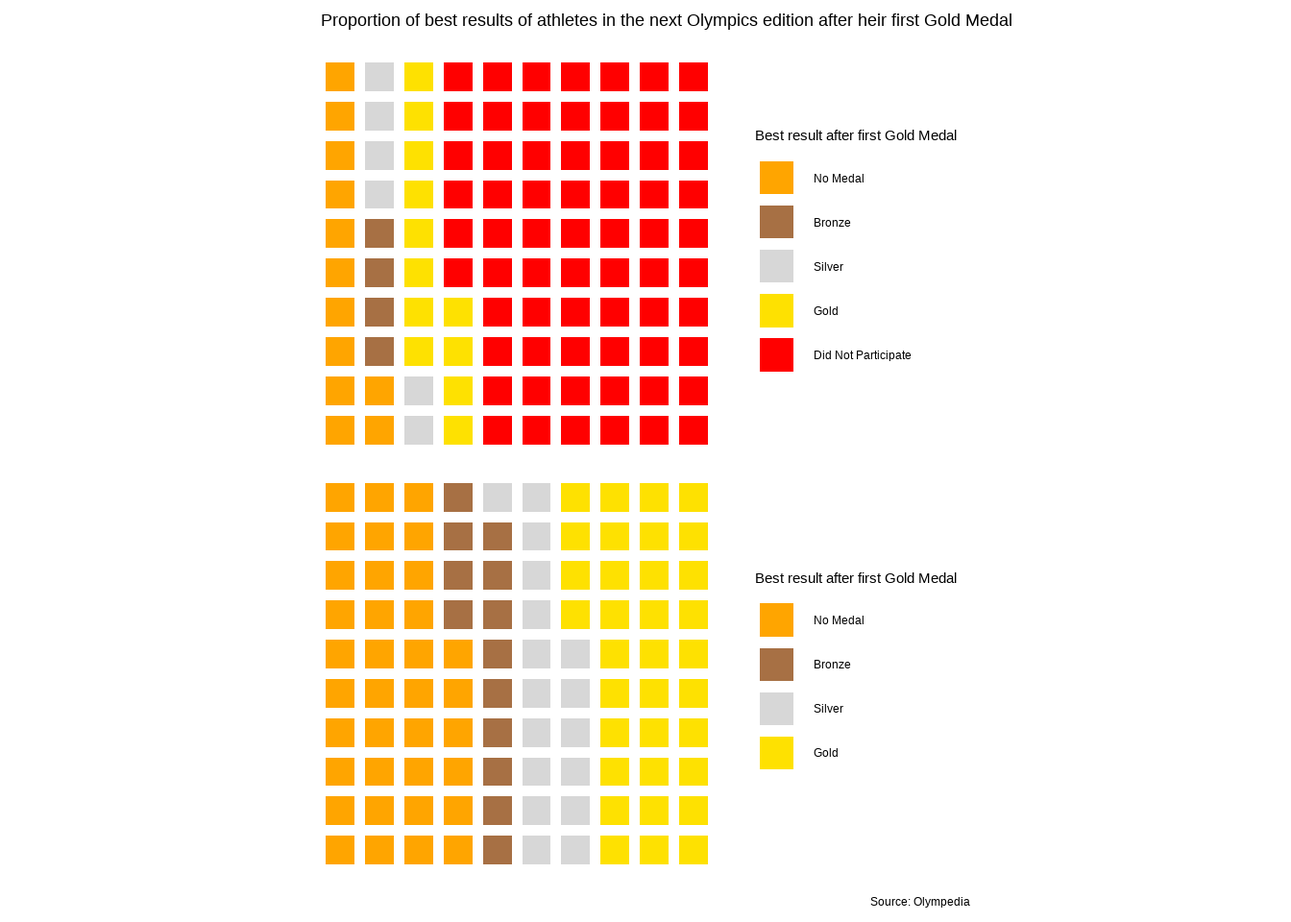
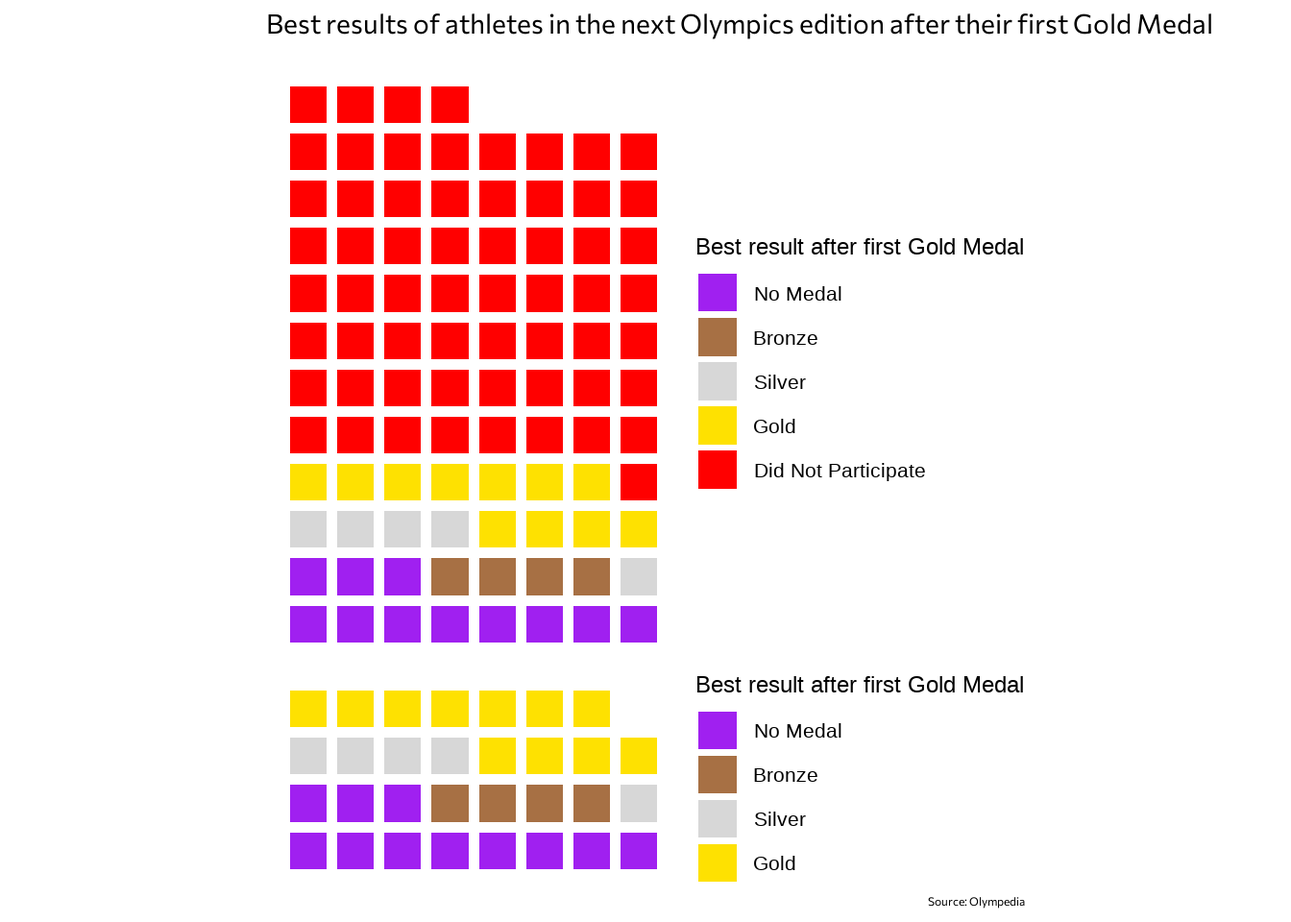
Built site for gh-pages

Changed region(s): [[0.2188, 0.0625, 0.8125, 0.9688], [0.1875, 0.0, 0.9375, 0.0312], [0.6875, 0.9688, 0.7812, 1.0]]

diff --git a/posts/post_4/post_4.html b/posts/post_4/post_4.html
@@ -208,7 +208,7 @@ pre > code.sourceCode > span > a:first-child::before { text-decoration: underlin
 
 <p>A Gold Medal in the Olympics is probably the highest an athlete can dream. While watching the 2024 Paris Olympic Games, and looking at some historic data, I tried to ask myself some questions that could be answered through creative data analysis. I thought about some medalists performance throughout multiple Olympic cicles, and asked myself: When athletes win their first Gold Medal, how do they perform in the next Olympics Edition? How often do they keep on the podium? Or do they even compete another edition?</p>
 <p>I tried to get some insight using data from <a href="https://basedosdados.org/dataset/62f8cb83-ac37-48be-874b-b94dd92d3e2b?table=567b1ccd-d8c2-4616-bacb-cf5c0e7b8d89">Olympedia</a>, downloaded from the brazilian project <a href="https://basedosdados.org/">Base dos Dados</a>.</p>
-<p>First things first: we read the data as CSV, extract the year the edition happened, and replace NAs in the Medal column as “No_Medal”.</p>
+<p>First things first: we read the data as CSV, extract the year the edition happened, and replace NAs in the Medal column as “No_Medal”. I also ordered the Medal column.</p>
 <div class="cell">
 <div class="sourceCode cell-code" id="cb1"><pre class="sourceCode r code-with-copy"><code class="sourceCode r"><span id="cb1-1"><a href="#cb1-1" aria-hidden="true" tabindex="-1"></a><span class="fu">library</span>(tidyverse)</span>
 <span id="cb1-2"><a href="#cb1-2" aria-hidden="true" tabindex="-1"></a><span class="fu">library</span>(showtext)</span>
@@ -245,61 +245,70 @@ pre > code.sourceCode > span > a:first-child::before { text-decoration: underlin
 <span id="cb3-6"><a href="#cb3-6" aria-hidden="true" tabindex="-1"></a></span>
 <span id="cb3-7"><a href="#cb3-7" aria-hidden="true" tabindex="-1"></a>join <span class="ot">&lt;-</span> first_gold <span class="sc">%&gt;%</span></span>
 <span id="cb3-8"><a href="#cb3-8" aria-hidden="true" tabindex="-1"></a>  <span class="fu">left_join</span>(next_edition_medals, <span class="at">by =</span> <span class="fu">c</span>(<span class="st">"athlete_id"</span>,<span class="st">"next_ed"</span>)) <span class="sc">%&gt;%</span></span>
-<span id="cb3-9"><a href="#cb3-9" aria-hidden="true" tabindex="-1"></a>  <span class="fu">replace_na</span>(<span class="fu">list</span>(<span class="at">medal =</span> <span class="st">"no_participation"</span>)) <span class="sc">%&gt;%</span></span>
-<span id="cb3-10"><a href="#cb3-10" aria-hidden="true" tabindex="-1"></a>  <span class="fu">group_by</span>(athlete_id) <span class="sc">%&gt;%</span></span>
-<span id="cb3-11"><a href="#cb3-11" aria-hidden="true" tabindex="-1"></a>  <span class="fu">slice_max</span>(medal.y) <span class="sc">%&gt;%</span></span>
-<span id="cb3-12"><a href="#cb3-12" aria-hidden="true" tabindex="-1"></a>  <span class="fu">unique</span>() <span class="sc">%&gt;%</span></span>
-<span id="cb3-13"><a href="#cb3-13" aria-hidden="true" tabindex="-1"></a>  <span class="fu">ungroup</span>() </span>
-<span id="cb3-14"><a href="#cb3-14" aria-hidden="true" tabindex="-1"></a></span>
-<span id="cb3-15"><a href="#cb3-15" aria-hidden="true" tabindex="-1"></a>df <span class="ot">&lt;-</span> join <span class="sc">%&gt;%</span></span>
-<span id="cb3-16"><a href="#cb3-16" aria-hidden="true" tabindex="-1"></a>  <span class="fu">rename</span>(<span class="st">"first_gold"</span> <span class="ot">=</span> medal.x, <span class="st">"next_medal"</span> <span class="ot">=</span> medal.y)</span></code><button title="Copy to Clipboard" class="code-copy-button"><i class="bi"></i></button></pre></div>
+<span id="cb3-9"><a href="#cb3-9" aria-hidden="true" tabindex="-1"></a>  <span class="fu">group_by</span>(athlete_id) <span class="sc">%&gt;%</span></span>
+<span id="cb3-10"><a href="#cb3-10" aria-hidden="true" tabindex="-1"></a>  <span class="fu">slice_max</span>(medal.y) <span class="sc">%&gt;%</span></span>
+<span id="cb3-11"><a href="#cb3-11" aria-hidden="true" tabindex="-1"></a>  <span class="fu">unique</span>() <span class="sc">%&gt;%</span></span>
+<span id="cb3-12"><a href="#cb3-12" aria-hidden="true" tabindex="-1"></a>  <span class="fu">ungroup</span>() </span>
+<span id="cb3-13"><a href="#cb3-13" aria-hidden="true" tabindex="-1"></a></span>
+<span id="cb3-14"><a href="#cb3-14" aria-hidden="true" tabindex="-1"></a>join<span class="sc">$</span>medal.y <span class="ot">&lt;-</span> <span class="fu">addNA</span>(join<span class="sc">$</span>medal.y)</span>
+<span id="cb3-15"><a href="#cb3-15" aria-hidden="true" tabindex="-1"></a><span class="fu">levels</span>(join<span class="sc">$</span>medal.y) <span class="ot">&lt;-</span> <span class="fu">c</span>(<span class="st">"No Medal"</span>, <span class="st">"Bronze"</span>, <span class="st">"Silver"</span>, <span class="st">"Gold"</span>, <span class="st">"Did Not Participate"</span>)</span>
+<span id="cb3-16"><a href="#cb3-16" aria-hidden="true" tabindex="-1"></a></span>
+<span id="cb3-17"><a href="#cb3-17" aria-hidden="true" tabindex="-1"></a>df <span class="ot">&lt;-</span> join <span class="sc">%&gt;%</span></span>
+<span id="cb3-18"><a href="#cb3-18" aria-hidden="true" tabindex="-1"></a>  <span class="fu">rename</span>(<span class="st">"first_gold"</span> <span class="ot">=</span> medal.x, <span class="st">"next_medal"</span> <span class="ot">=</span> medal.y)</span></code><button title="Copy to Clipboard" class="code-copy-button"><i class="bi"></i></button></pre></div>
 </div>
 <p>Now the dataset summarises the first time an athlete won a Gold Medal, and then the next edition the athlete participated, and the best result obtained - since some athletes win way more than one medal in one edition. One thing I did not control, however, is whether the athlete won a medal in the same category, or another.</p>
-<p>And now to the first plot, I created a Waffle chart, representing the percentage of the results athletes get after winning their first Gold Medals. The plot on the left shows the general result, counting the athletes who did not participate in the next ediiton of the Olympics. The plot in the right, ignores those athletes.</p>
+<p>And now to the first plot, I created a Waffle chart, representing what athletes get after winning their first Gold Medals. The squares represent every 100 athletes. The plot on the top shows the general result, counting the athletes who did not participate in the next ediiton of the Olympics. The plot below, ignores those athletes.</p>
 <div class="cell">
 <div class="sourceCode cell-code" id="cb4"><pre class="sourceCode r code-with-copy"><code class="sourceCode r"><span id="cb4-1"><a href="#cb4-1" aria-hidden="true" tabindex="-1"></a><span class="fu">library</span>(waffle)</span>
-<span id="cb4-2"><a href="#cb4-2" aria-hidden="true" tabindex="-1"></a></span>
-<span id="cb4-3"><a href="#cb4-3" aria-hidden="true" tabindex="-1"></a>one_a <span class="ot">&lt;-</span> df <span class="sc">%&gt;%</span></span>
-<span id="cb4-4"><a href="#cb4-4" aria-hidden="true" tabindex="-1"></a>  <span class="fu">group_by</span>(next_medal) <span class="sc">%&gt;%</span></span>
-<span id="cb4-5"><a href="#cb4-5" aria-hidden="true" tabindex="-1"></a>  <span class="fu">summarise</span>(</span>
-<span id="cb4-6"><a href="#cb4-6" aria-hidden="true" tabindex="-1"></a>    <span class="at">perc =</span> <span class="fu">round</span>((<span class="fu">n</span>()<span class="sc">/</span><span class="fu">nrow</span>(.))<span class="sc">*</span><span class="dv">100</span>)</span>
-<span id="cb4-7"><a href="#cb4-7" aria-hidden="true" tabindex="-1"></a>  ) <span class="sc">%&gt;%</span></span>
-<span id="cb4-8"><a href="#cb4-8" aria-hidden="true" tabindex="-1"></a>  <span class="fu">waffle</span>() <span class="sc">+</span></span>
-<span id="cb4-9"><a href="#cb4-9" aria-hidden="true" tabindex="-1"></a>  <span class="fu">scale_fill_manual</span>(<span class="at">labels =</span> <span class="fu">c</span>(<span class="st">"No Medal"</span>, <span class="st">"Bronze"</span>, <span class="st">"Silver"</span>, <span class="st">"Gold"</span>, <span class="st">"Did Not Participate"</span>),</span>
-<span id="cb4-10"><a href="#cb4-10" aria-hidden="true" tabindex="-1"></a>                    <span class="at">values =</span> <span class="fu">c</span>(<span class="st">"orange"</span>, <span class="st">"#A77044"</span>, <span class="st">"#D7D7D7"</span>, <span class="st">"#FEE101"</span>, <span class="st">"red"</span>)) <span class="sc">+</span></span>
-<span id="cb4-11"><a href="#cb4-11" aria-hidden="true" tabindex="-1"></a>  <span class="fu">labs</span>(</span>
-<span id="cb4-12"><a href="#cb4-12" aria-hidden="true" tabindex="-1"></a>    <span class="at">fill =</span> <span class="st">"Best result after first Gold Medal"</span></span>
-<span id="cb4-13"><a href="#cb4-13" aria-hidden="true" tabindex="-1"></a>  )</span>
-<span id="cb4-14"><a href="#cb4-14" aria-hidden="true" tabindex="-1"></a></span>
-<span id="cb4-15"><a href="#cb4-15" aria-hidden="true" tabindex="-1"></a>one_b <span class="ot">&lt;-</span> df <span class="sc">%&gt;%</span></span>
-<span id="cb4-16"><a href="#cb4-16" aria-hidden="true" tabindex="-1"></a>  <span class="fu">filter</span>(next_medal <span class="sc">!=</span> <span class="st">"no_participation"</span>) <span class="sc">%&gt;%</span></span>
-<span id="cb4-17"><a href="#cb4-17" aria-hidden="true" tabindex="-1"></a>  <span class="fu">group_by</span>(next_medal) <span class="sc">%&gt;%</span></span>
-<span id="cb4-18"><a href="#cb4-18" aria-hidden="true" tabindex="-1"></a>  <span class="fu">summarise</span>(</span>
-<span id="cb4-19"><a href="#cb4-19" aria-hidden="true" tabindex="-1"></a>    <span class="at">perc =</span> <span class="fu">round</span>((<span class="fu">n</span>()<span class="sc">/</span><span class="fu">nrow</span>(.))<span class="sc">*</span><span class="dv">100</span>)</span>
-<span id="cb4-20"><a href="#cb4-20" aria-hidden="true" tabindex="-1"></a>  ) <span class="sc">%&gt;%</span></span>
-<span id="cb4-21"><a href="#cb4-21" aria-hidden="true" tabindex="-1"></a>  <span class="fu">waffle</span>() <span class="sc">+</span></span>
-<span id="cb4-22"><a href="#cb4-22" aria-hidden="true" tabindex="-1"></a>  <span class="fu">scale_fill_manual</span>(<span class="at">labels =</span> <span class="fu">c</span>(<span class="st">"No Medal"</span>, <span class="st">"Bronze"</span>, <span class="st">"Silver"</span>, <span class="st">"Gold"</span>),</span>
-<span id="cb4-23"><a href="#cb4-23" aria-hidden="true" tabindex="-1"></a>                    <span class="at">values =</span> <span class="fu">c</span>(<span class="st">"orange"</span>, <span class="st">"#A77044"</span>, <span class="st">"#D7D7D7"</span>, <span class="st">"#FEE101"</span>)) <span class="sc">+</span></span>
-<span id="cb4-24"><a href="#cb4-24" aria-hidden="true" tabindex="-1"></a>  <span class="fu">labs</span>(</span>
-<span id="cb4-25"><a href="#cb4-25" aria-hidden="true" tabindex="-1"></a>    <span class="at">fill =</span> <span class="st">"Best result after first Gold Medal"</span></span>
-<span id="cb4-26"><a href="#cb4-26" aria-hidden="true" tabindex="-1"></a>  )</span>
-<span id="cb4-27"><a href="#cb4-27" aria-hidden="true" tabindex="-1"></a></span>
-<span id="cb4-28"><a href="#cb4-28" aria-hidden="true" tabindex="-1"></a><span class="fu">library</span>(patchwork)</span>
-<span id="cb4-29"><a href="#cb4-29" aria-hidden="true" tabindex="-1"></a></span>
-<span id="cb4-30"><a href="#cb4-30" aria-hidden="true" tabindex="-1"></a>title_one <span class="ot">&lt;-</span> <span class="st">"Proportion of best results of athletes in the next Olympics edition after heir first Gold Medal"</span></span>
-<span id="cb4-31"><a href="#cb4-31" aria-hidden="true" tabindex="-1"></a>caption_one <span class="ot">&lt;-</span> <span class="st">"Source: Olympedia"</span></span>
-<span id="cb4-32"><a href="#cb4-32" aria-hidden="true" tabindex="-1"></a> </span>
-<span id="cb4-33"><a href="#cb4-33" aria-hidden="true" tabindex="-1"></a>plot <span class="ot">&lt;-</span> one_a <span class="sc">/</span> one_b </span>
+<span id="cb4-2"><a href="#cb4-2" aria-hidden="true" tabindex="-1"></a>one_a  <span class="ot">&lt;-</span> df <span class="sc">%&gt;%</span></span>
+<span id="cb4-3"><a href="#cb4-3" aria-hidden="true" tabindex="-1"></a>  <span class="fu">group_by</span>(next_medal) <span class="sc">%&gt;%</span></span>
+<span id="cb4-4"><a href="#cb4-4" aria-hidden="true" tabindex="-1"></a>  <span class="fu">summarise</span>(</span>
+<span id="cb4-5"><a href="#cb4-5" aria-hidden="true" tabindex="-1"></a>    <span class="at">n =</span> <span class="fu">n</span>()<span class="sc">/</span><span class="dv">100</span></span>
+<span id="cb4-6"><a href="#cb4-6" aria-hidden="true" tabindex="-1"></a>  ) <span class="sc">%&gt;%</span></span>
+<span id="cb4-7"><a href="#cb4-7" aria-hidden="true" tabindex="-1"></a>  <span class="fu">ggplot</span>(<span class="fu">aes</span>(<span class="at">fill =</span> next_medal, <span class="at">values =</span> n)) <span class="sc">+</span></span>
+<span id="cb4-8"><a href="#cb4-8" aria-hidden="true" tabindex="-1"></a>    <span class="fu">geom_waffle</span>(<span class="at">colour =</span> <span class="st">"white"</span>, <span class="at">n_rows =</span> <span class="dv">8</span>, <span class="at">size =</span> <span class="dv">2</span>, <span class="at">flip =</span> <span class="cn">TRUE</span>) <span class="sc">+</span></span>
+<span id="cb4-9"><a href="#cb4-9" aria-hidden="true" tabindex="-1"></a>    <span class="fu">scale_fill_manual</span>(<span class="at">values =</span> <span class="fu">c</span>(<span class="st">"purple"</span>, <span class="st">"#A77044"</span>, <span class="st">"#D7D7D7"</span>, <span class="st">"#FEE101"</span>, <span class="st">"red"</span>))  <span class="sc">+</span></span>
+<span id="cb4-10"><a href="#cb4-10" aria-hidden="true" tabindex="-1"></a>    <span class="fu">labs</span>(</span>
+<span id="cb4-11"><a href="#cb4-11" aria-hidden="true" tabindex="-1"></a>      <span class="at">fill =</span> <span class="st">"Best result after first Gold Medal"</span></span>
+<span id="cb4-12"><a href="#cb4-12" aria-hidden="true" tabindex="-1"></a>    ) <span class="sc">+</span></span>
+<span id="cb4-13"><a href="#cb4-13" aria-hidden="true" tabindex="-1"></a>  <span class="fu">theme_void</span>() <span class="sc">+</span></span>
+<span id="cb4-14"><a href="#cb4-14" aria-hidden="true" tabindex="-1"></a>  <span class="fu">coord_equal</span>() <span class="sc">+</span></span>
+<span id="cb4-15"><a href="#cb4-15" aria-hidden="true" tabindex="-1"></a>  <span class="fu">theme</span>(<span class="at">legend.text =</span> <span class="fu">element_text</span>(<span class="at">size =</span> <span class="dv">16</span>),</span>
+<span id="cb4-16"><a href="#cb4-16" aria-hidden="true" tabindex="-1"></a>        <span class="at">legend.title =</span> <span class="fu">element_text</span>(<span class="at">size =</span> <span class="dv">18</span>))</span>
+<span id="cb4-17"><a href="#cb4-17" aria-hidden="true" tabindex="-1"></a></span>
+<span id="cb4-18"><a href="#cb4-18" aria-hidden="true" tabindex="-1"></a>one_b  <span class="ot">&lt;-</span> df <span class="sc">%&gt;%</span></span>
+<span id="cb4-19"><a href="#cb4-19" aria-hidden="true" tabindex="-1"></a>  <span class="fu">filter</span>(next_medal <span class="sc">!=</span> <span class="st">"Did Not Participate"</span>) <span class="sc">%&gt;%</span></span>
+<span id="cb4-20"><a href="#cb4-20" aria-hidden="true" tabindex="-1"></a>  <span class="fu">group_by</span>(next_medal) <span class="sc">%&gt;%</span></span>
+<span id="cb4-21"><a href="#cb4-21" aria-hidden="true" tabindex="-1"></a>  <span class="fu">summarise</span>(</span>
+<span id="cb4-22"><a href="#cb4-22" aria-hidden="true" tabindex="-1"></a>    <span class="at">n =</span> <span class="fu">n</span>()<span class="sc">/</span><span class="dv">100</span></span>
+<span id="cb4-23"><a href="#cb4-23" aria-hidden="true" tabindex="-1"></a>  ) <span class="sc">%&gt;%</span></span>
+<span id="cb4-24"><a href="#cb4-24" aria-hidden="true" tabindex="-1"></a>  <span class="fu">ggplot</span>(<span class="fu">aes</span>(<span class="at">fill =</span> next_medal, <span class="at">values =</span> n)) <span class="sc">+</span></span>
+<span id="cb4-25"><a href="#cb4-25" aria-hidden="true" tabindex="-1"></a>    <span class="fu">geom_waffle</span>(<span class="at">colour =</span> <span class="st">"white"</span>, <span class="at">n_rows =</span> <span class="dv">8</span>, <span class="at">size =</span> <span class="dv">2</span>, <span class="at">flip =</span> <span class="cn">TRUE</span>) <span class="sc">+</span></span>
+<span id="cb4-26"><a href="#cb4-26" aria-hidden="true" tabindex="-1"></a>    <span class="fu">scale_fill_manual</span>(<span class="at">values =</span> <span class="fu">c</span>(<span class="st">"purple"</span>, <span class="st">"#A77044"</span>, <span class="st">"#D7D7D7"</span>, <span class="st">"#FEE101"</span>))  <span class="sc">+</span></span>
+<span id="cb4-27"><a href="#cb4-27" aria-hidden="true" tabindex="-1"></a>    <span class="fu">labs</span>(</span>
+<span id="cb4-28"><a href="#cb4-28" aria-hidden="true" tabindex="-1"></a>      <span class="at">fill =</span> <span class="st">"Best result after first Gold Medal"</span></span>
+<span id="cb4-29"><a href="#cb4-29" aria-hidden="true" tabindex="-1"></a>    ) <span class="sc">+</span></span>
+<span id="cb4-30"><a href="#cb4-30" aria-hidden="true" tabindex="-1"></a>  <span class="fu">theme_void</span>() <span class="sc">+</span></span>
+<span id="cb4-31"><a href="#cb4-31" aria-hidden="true" tabindex="-1"></a>  <span class="fu">coord_equal</span>() <span class="sc">+</span></span>
+<span id="cb4-32"><a href="#cb4-32" aria-hidden="true" tabindex="-1"></a>  <span class="fu">theme</span>(<span class="at">legend.text =</span> <span class="fu">element_text</span>(<span class="at">size =</span> <span class="dv">16</span>),</span>
+<span id="cb4-33"><a href="#cb4-33" aria-hidden="true" tabindex="-1"></a>        <span class="at">legend.title =</span> <span class="fu">element_text</span>(<span class="at">size =</span> <span class="dv">18</span>))</span>
 <span id="cb4-34"><a href="#cb4-34" aria-hidden="true" tabindex="-1"></a></span>
-<span id="cb4-35"><a href="#cb4-35" aria-hidden="true" tabindex="-1"></a>plot <span class="sc">+</span></span>
-<span id="cb4-36"><a href="#cb4-36" aria-hidden="true" tabindex="-1"></a>  <span class="fu">plot_annotation</span>(</span>
-<span id="cb4-37"><a href="#cb4-37" aria-hidden="true" tabindex="-1"></a>    <span class="at">title =</span> title_one,</span>
-<span id="cb4-38"><a href="#cb4-38" aria-hidden="true" tabindex="-1"></a>    <span class="at">caption =</span> caption_one</span>
-<span id="cb4-39"><a href="#cb4-39" aria-hidden="true" tabindex="-1"></a>  ) <span class="sc">+</span></span>
-<span id="cb4-40"><a href="#cb4-40" aria-hidden="true" tabindex="-1"></a>  <span class="fu">theme</span>(</span>
-<span id="cb4-41"><a href="#cb4-41" aria-hidden="true" tabindex="-1"></a>    <span class="at">plot.title =</span> <span class="fu">element_text</span>(<span class="at">family =</span> <span class="st">"Commissioner"</span>),</span>
-<span id="cb4-42"><a href="#cb4-42" aria-hidden="true" tabindex="-1"></a>    <span class="at">plot.caption =</span> <span class="fu">element_text</span>(<span class="at">family =</span> <span class="st">"Commissioner"</span>)</span>
-<span id="cb4-43"><a href="#cb4-43" aria-hidden="true" tabindex="-1"></a>  )</span></code><button title="Copy to Clipboard" class="code-copy-button"><i class="bi"></i></button></pre></div>
+<span id="cb4-35"><a href="#cb4-35" aria-hidden="true" tabindex="-1"></a><span class="fu">library</span>(patchwork)</span>
+<span id="cb4-36"><a href="#cb4-36" aria-hidden="true" tabindex="-1"></a></span>
+<span id="cb4-37"><a href="#cb4-37" aria-hidden="true" tabindex="-1"></a>title_one <span class="ot">&lt;-</span> <span class="st">"Best results of athletes in the next Olympics edition after their first Gold Medal"</span></span>
+<span id="cb4-38"><a href="#cb4-38" aria-hidden="true" tabindex="-1"></a>caption_one <span class="ot">&lt;-</span> <span class="st">"Source: Olympedia"</span></span>
+<span id="cb4-39"><a href="#cb4-39" aria-hidden="true" tabindex="-1"></a> </span>
+<span id="cb4-40"><a href="#cb4-40" aria-hidden="true" tabindex="-1"></a>plot <span class="ot">&lt;-</span> one_a <span class="sc">/</span> one_b </span>
+<span id="cb4-41"><a href="#cb4-41" aria-hidden="true" tabindex="-1"></a></span>
+<span id="cb4-42"><a href="#cb4-42" aria-hidden="true" tabindex="-1"></a>plot <span class="sc">+</span></span>
+<span id="cb4-43"><a href="#cb4-43" aria-hidden="true" tabindex="-1"></a>  <span class="fu">plot_annotation</span>(</span>
+<span id="cb4-44"><a href="#cb4-44" aria-hidden="true" tabindex="-1"></a>    <span class="at">title =</span> title_one,</span>
+<span id="cb4-45"><a href="#cb4-45" aria-hidden="true" tabindex="-1"></a>    <span class="at">caption =</span> caption_one,</span>
+<span id="cb4-46"><a href="#cb4-46" aria-hidden="true" tabindex="-1"></a>    <span class="at">theme =</span> <span class="fu">theme</span>(</span>
+<span id="cb4-47"><a href="#cb4-47" aria-hidden="true" tabindex="-1"></a>      <span class="at">plot.title =</span> <span class="fu">element_text</span>(<span class="at">family =</span> <span class="st">"Commissioner"</span>, <span class="at">size =</span> <span class="dv">21</span>),</span>
+<span id="cb4-48"><a href="#cb4-48" aria-hidden="true" tabindex="-1"></a>      <span class="at">plot.caption =</span> <span class="fu">element_text</span>(<span class="at">family =</span> <span class="st">"Commissioner"</span>, <span class="dv">30</span>)</span>
+<span id="cb4-49"><a href="#cb4-49" aria-hidden="true" tabindex="-1"></a>   )</span>
+<span id="cb4-50"><a href="#cb4-50" aria-hidden="true" tabindex="-1"></a>  ) </span></code><button title="Copy to Clipboard" class="code-copy-button"><i class="bi"></i></button></pre></div>
 <div class="cell-output-display">
 <div>
 <figure class="figure">
@@ -308,32 +317,36 @@ pre > code.sourceCode > span > a:first-child::before { text-decoration: underlin
 </div>
 </div>
 </div>
-<p>Since I’m Brazilian, I also wanted to look to the familiar faces of Brazilian gold medalists. Here, I did not use percentage data.</p>
+<p>Since I’m Brazilian, I also wanted to look to the familiar faces of Brazilian gold medalists. Here, I did not divide the number of athletes by then so each square represents one athlete.</p>
 <div class="cell">
-<div class="sourceCode cell-code" id="cb5"><pre class="sourceCode r code-with-copy"><code class="sourceCode r"><span id="cb5-1"><a href="#cb5-1" aria-hidden="true" tabindex="-1"></a>title_two <span class="ot">&lt;-</span> <span class="st">"Proportion of best results of brazilian athletes in the next Olympics edition after heir first Gold Medal"</span></span>
+<div class="sourceCode cell-code" id="cb5"><pre class="sourceCode r code-with-copy"><code class="sourceCode r"><span id="cb5-1"><a href="#cb5-1" aria-hidden="true" tabindex="-1"></a>title_two <span class="ot">&lt;-</span> <span class="st">"Best results of brazilian athletes in the next Olympics edition after their first Gold Medal"</span></span>
 <span id="cb5-2"><a href="#cb5-2" aria-hidden="true" tabindex="-1"></a>caption_two <span class="ot">&lt;-</span> <span class="st">"Source: Olympedia"</span></span>
 <span id="cb5-3"><a href="#cb5-3" aria-hidden="true" tabindex="-1"></a></span>
-<span id="cb5-4"><a href="#cb5-4" aria-hidden="true" tabindex="-1"></a>df <span class="sc">%&gt;%</span></span>
-<span id="cb5-5"><a href="#cb5-5" aria-hidden="true" tabindex="-1"></a>  <span class="fu">filter</span>(next_medal <span class="sc">!=</span> <span class="st">"no_participation"</span>) <span class="sc">%&gt;%</span></span>
+<span id="cb5-4"><a href="#cb5-4" aria-hidden="true" tabindex="-1"></a>two <span class="ot">&lt;-</span> df <span class="sc">%&gt;%</span></span>
+<span id="cb5-5"><a href="#cb5-5" aria-hidden="true" tabindex="-1"></a>  <span class="fu">filter</span>(next_medal <span class="sc">!=</span> <span class="st">"Did Not Participate"</span>) <span class="sc">%&gt;%</span></span>
 <span id="cb5-6"><a href="#cb5-6" aria-hidden="true" tabindex="-1"></a>  <span class="fu">filter</span>(country_noc <span class="sc">==</span> <span class="st">"BRA"</span>) <span class="sc">%&gt;%</span></span>
 <span id="cb5-7"><a href="#cb5-7" aria-hidden="true" tabindex="-1"></a>  <span class="fu">group_by</span>(next_medal) <span class="sc">%&gt;%</span></span>
 <span id="cb5-8"><a href="#cb5-8" aria-hidden="true" tabindex="-1"></a>  <span class="fu">summarise</span>(</span>
-<span id="cb5-9"><a href="#cb5-9" aria-hidden="true" tabindex="-1"></a>    <span class="fu">n</span>()</span>
+<span id="cb5-9"><a href="#cb5-9" aria-hidden="true" tabindex="-1"></a>    <span class="at">n =</span> <span class="fu">n</span>()</span>
 <span id="cb5-10"><a href="#cb5-10" aria-hidden="true" tabindex="-1"></a>  ) <span class="sc">%&gt;%</span></span>
-<span id="cb5-11"><a href="#cb5-11" aria-hidden="true" tabindex="-1"></a>  <span class="fu">waffle</span>() <span class="sc">+</span></span>
-<span id="cb5-12"><a href="#cb5-12" aria-hidden="true" tabindex="-1"></a>  <span class="fu">scale_fill_manual</span>(<span class="at">labels =</span> <span class="fu">c</span>(<span class="st">"No Medal"</span>, <span class="st">"Bronze"</span>, <span class="st">"Silver"</span>, <span class="st">"Gold"</span>),</span>
-<span id="cb5-13"><a href="#cb5-13" aria-hidden="true" tabindex="-1"></a>                    <span class="at">values =</span> <span class="fu">c</span>(<span class="st">"orange"</span>, <span class="st">"#A77044"</span>, <span class="st">"#D7D7D7"</span>, <span class="st">"#FEE101"</span>)) <span class="sc">+</span></span>
-<span id="cb5-14"><a href="#cb5-14" aria-hidden="true" tabindex="-1"></a>  <span class="fu">labs</span>(</span>
-<span id="cb5-15"><a href="#cb5-15" aria-hidden="true" tabindex="-1"></a>    <span class="at">fill =</span> <span class="st">"Best result after first Gold Medal"</span></span>
-<span id="cb5-16"><a href="#cb5-16" aria-hidden="true" tabindex="-1"></a>  ) <span class="sc">+</span></span>
-<span id="cb5-17"><a href="#cb5-17" aria-hidden="true" tabindex="-1"></a>  <span class="fu">plot_annotation</span>(</span>
-<span id="cb5-18"><a href="#cb5-18" aria-hidden="true" tabindex="-1"></a>    <span class="at">title =</span> title_two,</span>
-<span id="cb5-19"><a href="#cb5-19" aria-hidden="true" tabindex="-1"></a>    <span class="at">caption =</span> caption_two</span>
-<span id="cb5-20"><a href="#cb5-20" aria-hidden="true" tabindex="-1"></a>  ) <span class="sc">+</span></span>
-<span id="cb5-21"><a href="#cb5-21" aria-hidden="true" tabindex="-1"></a>  <span class="fu">theme</span>(</span>
-<span id="cb5-22"><a href="#cb5-22" aria-hidden="true" tabindex="-1"></a>    <span class="at">plot.title =</span> <span class="fu">element_text</span>(<span class="at">family =</span> <span class="st">"Commissioner"</span>),</span>
-<span id="cb5-23"><a href="#cb5-23" aria-hidden="true" tabindex="-1"></a>    <span class="at">plot.caption =</span> <span class="fu">element_text</span>(<span class="at">family =</span> <span class="st">"Commissioner"</span>)</span>
-<span id="cb5-24"><a href="#cb5-24" aria-hidden="true" tabindex="-1"></a>  )</span></code><button title="Copy to Clipboard" class="code-copy-button"><i class="bi"></i></button></pre></div>
+<span id="cb5-11"><a href="#cb5-11" aria-hidden="true" tabindex="-1"></a>  <span class="fu">ggplot</span>(<span class="fu">aes</span>(<span class="at">fill =</span> next_medal, <span class="at">values =</span> n)) <span class="sc">+</span></span>
+<span id="cb5-12"><a href="#cb5-12" aria-hidden="true" tabindex="-1"></a>    <span class="fu">geom_waffle</span>(<span class="at">colour =</span> <span class="st">"white"</span>, <span class="at">n_rows =</span> <span class="dv">8</span>, <span class="at">size =</span> <span class="dv">2</span>, <span class="at">flip =</span> <span class="cn">TRUE</span>) <span class="sc">+</span></span>
+<span id="cb5-13"><a href="#cb5-13" aria-hidden="true" tabindex="-1"></a>    <span class="fu">scale_fill_manual</span>(<span class="at">values =</span> <span class="fu">c</span>(<span class="st">"purple"</span>, <span class="st">"#A77044"</span>, <span class="st">"#D7D7D7"</span>, <span class="st">"#FEE101"</span>))  <span class="sc">+</span></span>
+<span id="cb5-14"><a href="#cb5-14" aria-hidden="true" tabindex="-1"></a>    <span class="fu">labs</span>(</span>
+<span id="cb5-15"><a href="#cb5-15" aria-hidden="true" tabindex="-1"></a>      <span class="at">fill =</span> <span class="st">"Best result after first Gold Medal"</span></span>
+<span id="cb5-16"><a href="#cb5-16" aria-hidden="true" tabindex="-1"></a>    ) <span class="sc">+</span></span>
+<span id="cb5-17"><a href="#cb5-17" aria-hidden="true" tabindex="-1"></a>  <span class="fu">theme_void</span>() <span class="sc">+</span></span>
+<span id="cb5-18"><a href="#cb5-18" aria-hidden="true" tabindex="-1"></a>  <span class="fu">theme</span>(</span>
+<span id="cb5-19"><a href="#cb5-19" aria-hidden="true" tabindex="-1"></a>    <span class="at">legend.text =</span> <span class="fu">element_text</span>(<span class="at">size =</span> <span class="dv">16</span>),</span>
+<span id="cb5-20"><a href="#cb5-20" aria-hidden="true" tabindex="-1"></a>    <span class="at">legend.title =</span> <span class="fu">element_text</span>(<span class="at">size =</span> <span class="dv">18</span>)</span>
+<span id="cb5-21"><a href="#cb5-21" aria-hidden="true" tabindex="-1"></a>  ) <span class="sc">+</span> <span class="fu">coord_equal</span>()</span>
+<span id="cb5-22"><a href="#cb5-22" aria-hidden="true" tabindex="-1"></a></span>
+<span id="cb5-23"><a href="#cb5-23" aria-hidden="true" tabindex="-1"></a>two <span class="sc">+</span> <span class="fu">plot_annotation</span>(</span>
+<span id="cb5-24"><a href="#cb5-24" aria-hidden="true" tabindex="-1"></a>    <span class="at">title =</span> title_two,</span>
+<span id="cb5-25"><a href="#cb5-25" aria-hidden="true" tabindex="-1"></a>    <span class="at">caption =</span> caption_two,</span>
+<span id="cb5-26"><a href="#cb5-26" aria-hidden="true" tabindex="-1"></a>    <span class="at">theme =</span> <span class="fu">theme</span>(<span class="at">plot.title =</span> <span class="fu">element_text</span>(<span class="at">family =</span> <span class="st">"Commissioner"</span>, <span class="at">size =</span> <span class="dv">21</span>),</span>
+<span id="cb5-27"><a href="#cb5-27" aria-hidden="true" tabindex="-1"></a>                  <span class="at">plot.caption =</span> <span class="fu">element_text</span>(<span class="at">family =</span> <span class="st">"Commissioner"</span>, <span class="dv">30</span>))</span>
+<span id="cb5-28"><a href="#cb5-28" aria-hidden="true" tabindex="-1"></a>  )</span></code><button title="Copy to Clipboard" class="code-copy-button"><i class="bi"></i></button></pre></div>
 <div class="cell-output-display">
 <div>
 <figure class="figure">

diff --git a/2_Blog.html b/2_Blog.html
@@ -224,7 +224,7 @@ window.Quarto = {
 
 <div class="quarto-listing quarto-listing-container-default" id="listing-listing">
 <div class="list quarto-listing-default">
-<div class="quarto-post image-right" data-index="0" data-listing-date-sort="1722740400000" data-listing-file-modified-sort="1722781315453" data-listing-date-modified-sort="NaN" data-listing-reading-time-sort="5" data-listing-word-count-sort="902">
+<div class="quarto-post image-right" data-index="0" data-listing-date-sort="1722740400000" data-listing-file-modified-sort="1722810297652" data-listing-date-modified-sort="NaN" data-listing-reading-time-sort="6" data-listing-word-count-sort="1043">
 <div class="thumbnail">
 <p><a href="./posts/post_4/post_4.html" class="no-external"></a></p><a href="./posts/post_4/post_4.html" class="no-external">
 <p class="card-img-top"><img src="posts\post_4\post_4_files\figure-html\unnamed-chunk-4-1.png"  class="thumbnail-image card-img"/></p>

diff --git a/1_MAIN.html b/1_MAIN.html
@@ -184,9 +184,11 @@ ul.task-list li input[type="checkbox"] {
 <ul>
 <li>Statistical techniques:
 <ul>
-<li><p>Inferential Analysis</p></li>
+<li><p>Inferential Analysis</p>
+<ul>
 <li><p>Simple and Multivariate Linear Models</p></li>
 <li><p>Simple and Multivariate Generalized Linear Models</p></li>
+</ul></li>
 <li><p>Multivariate Clustering and Ordination Analysis</p>
 <ul>
 <li>Clustering Analysis (UPGMA; WPGMA) - I mastered these techniques during my Graduation to perform Biogeographical Regionalization</li>
